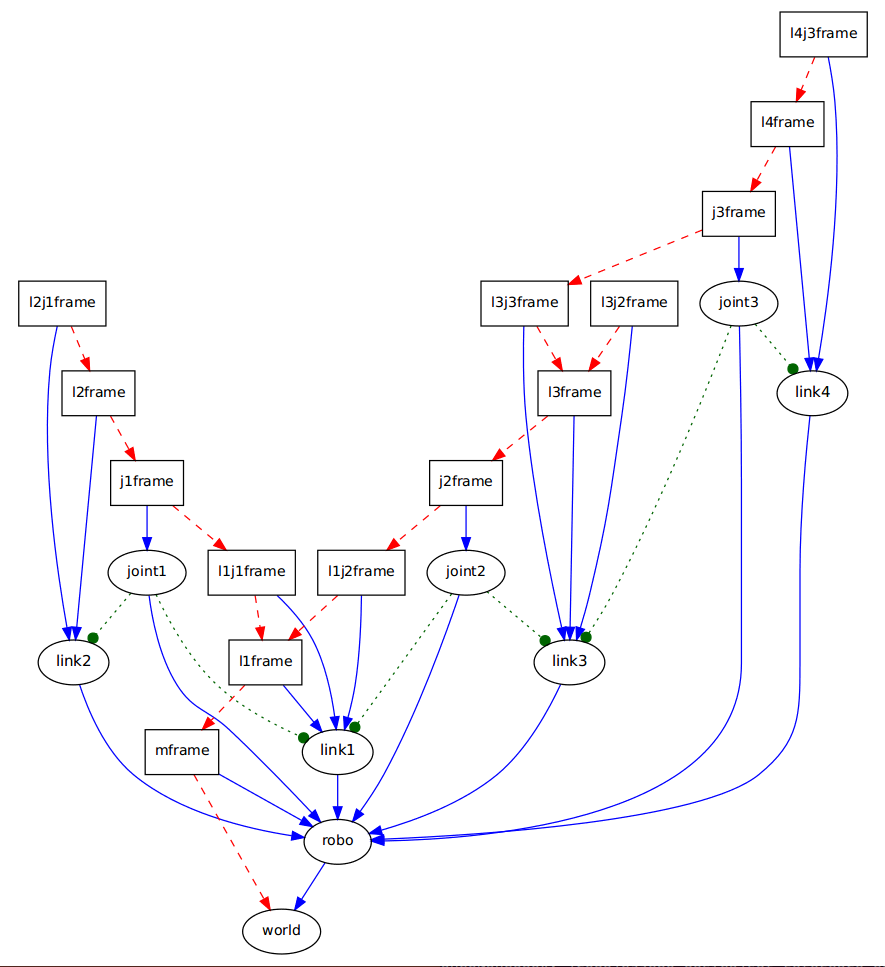
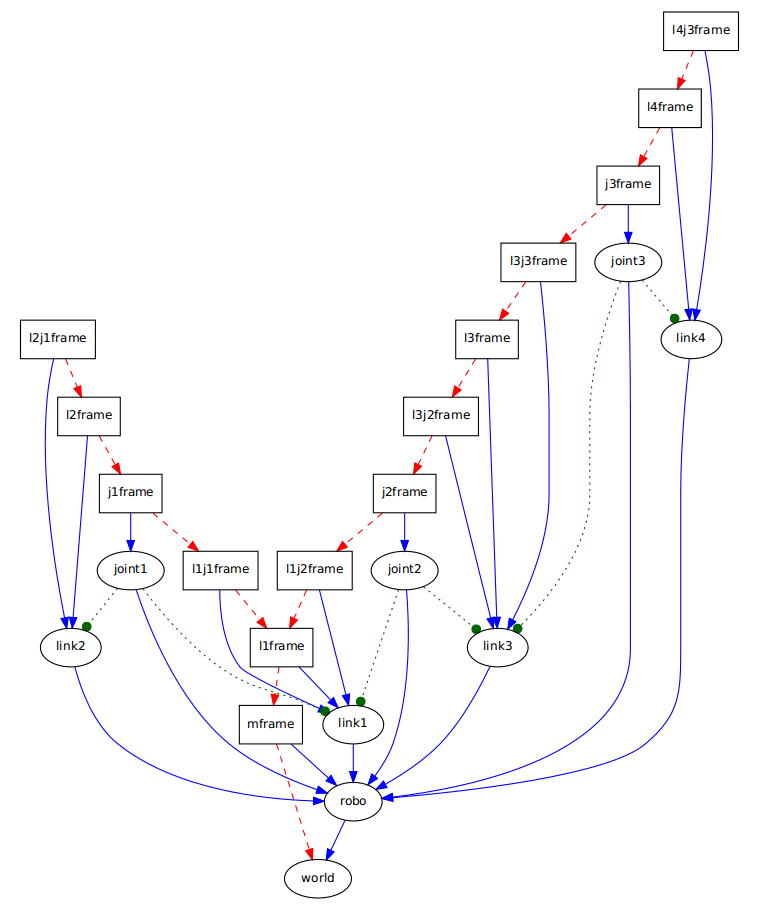
better graph

diff --git a/sdf_reference_geometry/frame_grah.py b/sdf_reference_geometry/frame_grah.py
@@ -143,8 +143,12 @@ digraph G {
 
     j3frame -> l3j3frame
     l3j3frame -> l3frame
-    l3j2frame ->l3frame
-    l3frame -> j2frame
+
+//    l3j2frame ->l3frame
+//    l3frame -> j2frame
+
+    l3frame -> l3j2frame
+    l3j2frame -> j2frame
 
     l2j1frame ->l2frame
 
